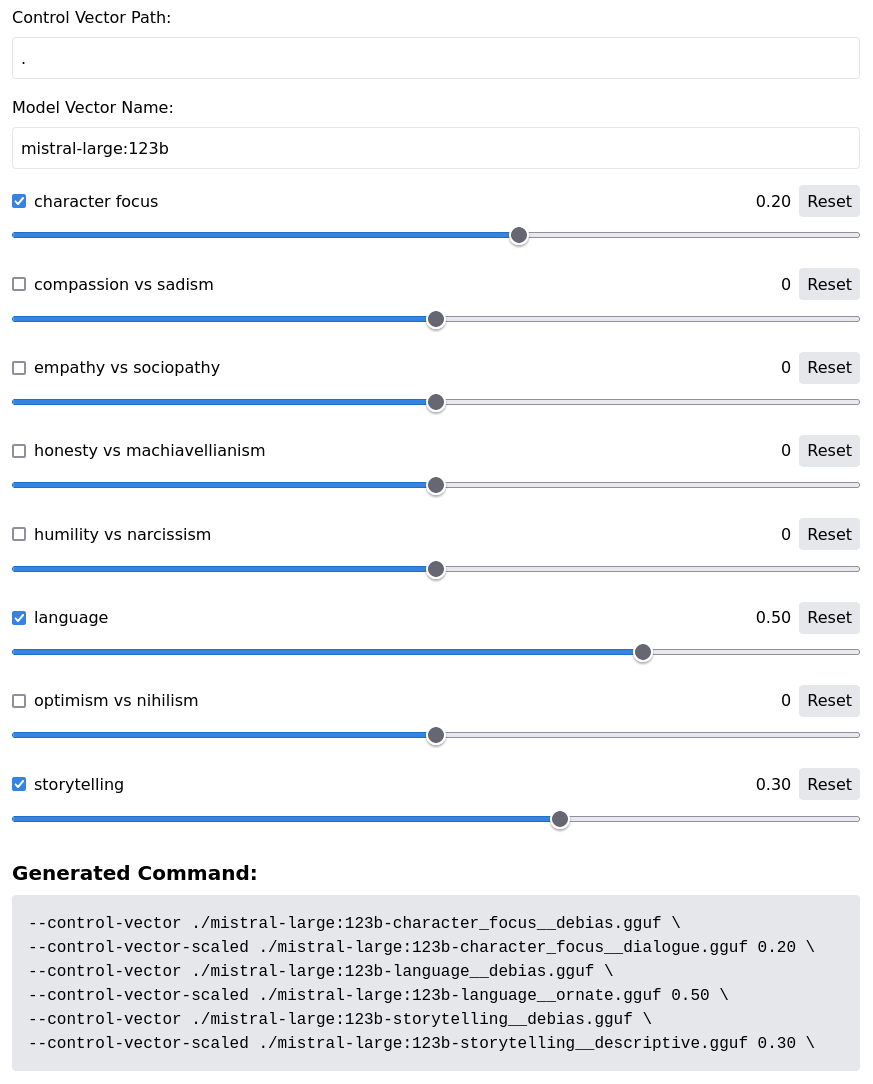
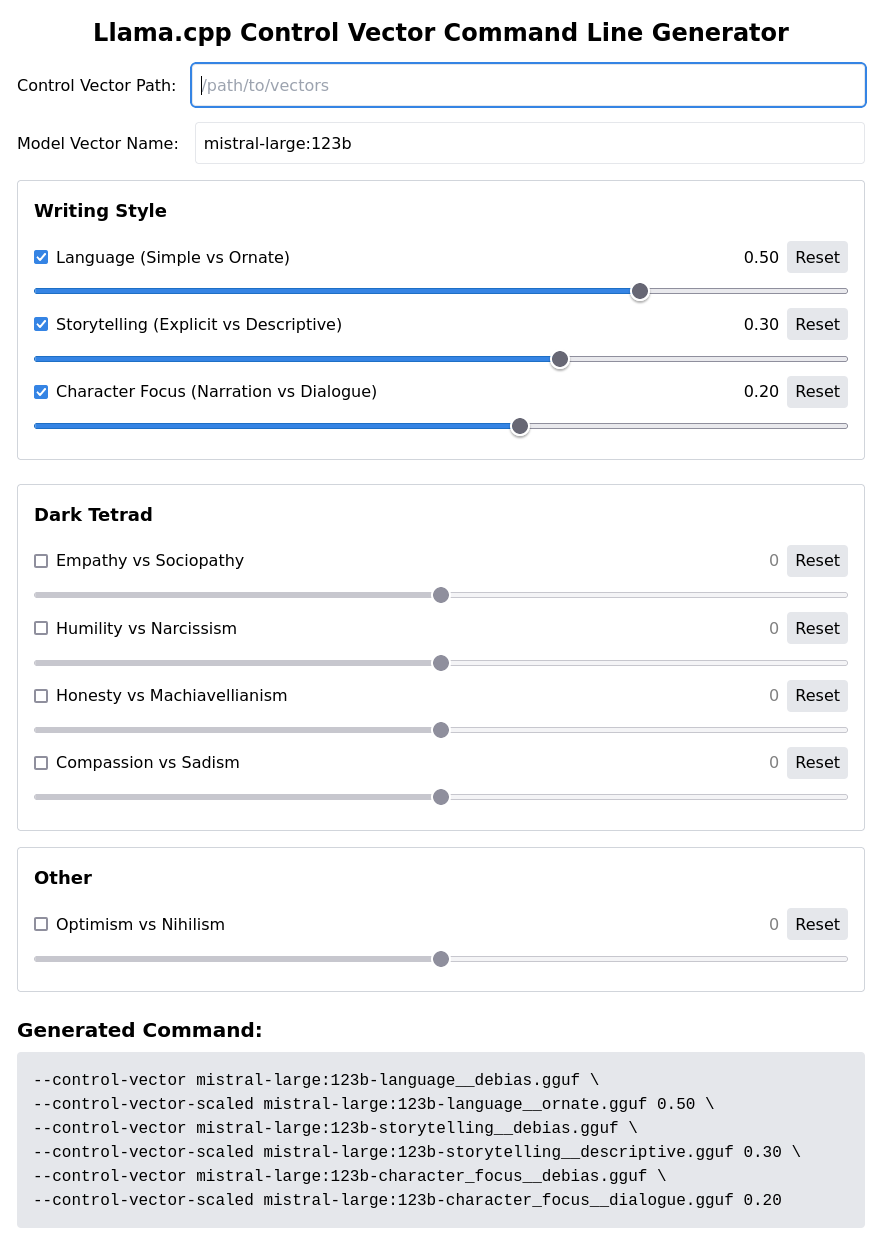
Refactored 'command_line_generator.html'.

Changed region(s): [[0.0, 0.0, 0.9897, 0.9742], [0.866, 0.7002, 0.9897, 0.7611], [0.9588, 0.0304, 0.9897, 0.0913]]

diff --git a/command_line_generator.html b/command_line_generator.html
@@ -8,16 +8,16 @@
 </head>
 <body class="bg-gray-100 p-8">
     <div class="max-w-4xl mx-auto bg-white p-6 rounded-lg shadow-md">
-        <h1 class="text-2xl font-bold mb-4">Llama.cpp Control Vector Command Generator</h1>
+        <h1 class="text-2xl font-bold mb-4 text-center">Llama.cpp Control Vector Command Line Generator</h1>
         
-        <div class="mb-4">
-            <label for="controlVectorPath" class="block mb-2">Control Vector Path:</label>
-            <input type="text" id="controlVectorPath" class="w-full p-2 border rounded" placeholder="/path/to/control/vectors">
+        <div class="mb-4 flex items-center">
+            <label for="controlVectorPath" class="block mr-4">Control Vector Path:</label>
+            <input type="text" id="controlVectorPath" class="flex-1 p-2 border rounded" placeholder="/path/to/vectors">
         </div>
-
-        <div class="mb-4">
-            <label for="modelVectorName" class="block mb-2">Model Vector Name:</label>
-            <input type="text" id="modelVectorName" class="w-full p-2 border rounded" placeholder="e.g., wizard-lm-2:8x22b">
+        
+        <div class="mb-4 flex items-center">
+            <label for="modelVectorName" class="block mr-4">Model Vector Name:</label>
+            <input type="text" id="modelVectorName" class="flex-1 p-2 border rounded" placeholder="e.g., wizard-lm-2:8x22b">
         </div>
 
         <div id="sliders" class="space-y-4"></div>
@@ -30,76 +30,120 @@
 
     <script>
         const controlVectors = [
-            { name: "character_focus", options: ["dialogue", "narration"] },
-            { name: "compassion_vs_sadism", options: ["compassion", "sadism"] },
-            { name: "empathy_vs_sociopathy", options: ["empathy", "sociopathy"] },
-            { name: "honesty_vs_machiavellianism", options: ["honesty", "machiavellianism"] },
-            { name: "humility_vs_narcissism", options: ["humility", "narcissism"] },
-            { name: "language", options: ["ornate", "simple"] },
-            { name: "optimism_vs_nihilism", options: ["optimism", "nihilism"] },
-            { name: "storytelling", options: ["descriptive", "explicit"] }
+            { category: "Writing Style", display_name: "Language (Simple vs Ornate)", name: "language", options: ["simple", "ornate"] },
+            { category: "Writing Style", display_name: "Storytelling (Explicit vs Descriptive)", name: "storytelling", options: ["explicit", "descriptive"] },
+            { category: "Writing Style", display_name: "Character Focus (Narration vs Dialogue)", name: "character_focus", options: ["narration", "dialogue"] },
+            { category: "Dark Tetrad", display_name: "Empathy vs Sociopathy", name: "empathy_vs_sociopathy", options: ["empathy", "sociopathy"] },
+            { category: "Dark Tetrad", display_name: "Humility vs Narcissism", name: "humility_vs_narcissism", options: ["humility", "narcissism"] },
+            { category: "Dark Tetrad", display_name: "Honesty vs Machiavellianism", name: "honesty_vs_machiavellianism", options: ["honesty", "machiavellianism"] },
+            { category: "Dark Tetrad", display_name: "Compassion vs Sadism", name: "compassion_vs_sadism", options: ["compassion", "sadism"] },
+            { category: "Other", display_name: "Optimism vs Nihilism", name: "optimism_vs_nihilism", options: ["optimism", "nihilism"] }
         ];
 
         const slidersContainer = document.getElementById('sliders');
+        const categories = {};
         const outputElement = document.getElementById('output');
         const controlVectorPathInput = document.getElementById('controlVectorPath');
         const modelVectorNameInput = document.getElementById('modelVectorName');
-
+        
         controlVectors.forEach(vector => {
+            if (!categories[vector.category]) {
+                const categoryContainer = document.createElement('div');
+                categoryContainer.classList.add("mb-6", "p-4", "border", "border-gray-300", "rounded");
+                const categoryTitle = document.createElement('h3');
+                categoryTitle.textContent = vector.category;
+                categoryTitle.classList.add("text-lg", "font-bold", "mb-4");
+                categoryContainer.appendChild(categoryTitle);
+                slidersContainer.appendChild(categoryContainer);
+                categories[vector.category] = categoryContainer;
+            }
+        
             const sliderContainer = document.createElement('div');
             sliderContainer.innerHTML = `
                 <div class="flex items-center mb-2">
                     <input type="checkbox" id="${vector.name}-active" class="mr-2" onchange="updateOutput()">
-                    <label class="mr-4">${vector.name.replace(/_/g, ' ')}</label>
+                    <label class="mr-4">${vector.display_name}</label>
                     <span id="${vector.name}-value" class="ml-auto">0</span>
                     <button id="${vector.name}-reset" class="ml-2 px-2 py-1 bg-gray-200 rounded" onclick="resetSlider('${vector.name}')">Reset</button>
                 </div>
                 <input type="range" min="-100" max="100" value="0" class="w-full" 
                     id="${vector.name}" oninput="updateSliderValue('${vector.name}')">
             `;
-            slidersContainer.appendChild(sliderContainer);
+            categories[vector.category].appendChild(sliderContainer);
         });
 
         function updateSliderValue(vectorName) {
-            const slider = document.getElementById(vectorName);
-            const value = parseFloat(slider.value) / 100;
-            document.getElementById(`${vectorName}-value`).textContent = value.toFixed(2);
-            updateOutput();
-        }
+           const slider = document.getElementById(vectorName);
+           const value = parseFloat(slider.value) / 100;
+           document.getElementById(`${vectorName}-value`).textContent = value.toFixed(2);
+           updateOutput();
+       }
+       
+       function resetSlider(vectorName) {
+           const slider = document.getElementById(vectorName);
+           slider.value = 0;
+           document.getElementById(`${vectorName}-value`).textContent = '0';
+           updateOutput();
+       }
+       
+       function updateOutput() {
+           const controlVectorPath = controlVectorPathInput.value.trim();
+           const modelVectorName = modelVectorNameInput.value.trim();
+           let command = '';
+       
+           controlVectors.forEach(vector => {
+               const isActive = document.getElementById(`${vector.name}-active`).checked;
+               const slider = document.getElementById(vector.name);
+               const sliderValueDisplay = document.getElementById(`${vector.name}-value`);
+               const resetButton = document.getElementById(`${vector.name}-reset`);
+       
+               // Enable or disable the slider and reset button based on checkbox state
+               slider.disabled = !isActive;
+               resetButton.disabled = !isActive;
+               sliderValueDisplay.style.opacity = isActive ? '1' : '0.5'; // Dim the value display when disabled
+       
+               if (!isActive) return;
+       
+               const value = parseFloat(slider.value) / 100;
+               const formattedPath = controlVectorPath ? `${controlVectorPath}/` : "";
+               const modelName = modelVectorName || "XXXXX";
+               
+               command += `--control-vector ${formattedPath}${modelName}-${vector.name}__debias.gguf \\\n`;
+               
+               if (value !== 0) {
+                   const option = value > 0 ? vector.options[1] : vector.options[0];
+                   const absValue = Math.abs(value);
+               
+                   if (Math.abs(absValue - 1.0) < 0.005) {
+                       command += `--control-vector ${formattedPath}${modelName}-${vector.name}__${option}.gguf \\\n`;
+                   } else {
+                       command += `--control-vector-scaled ${formattedPath}${modelName}-${vector.name}__${option}.gguf ${absValue.toFixed(2)} \\\n`;
+                   }
+               }
+           });
 
-        function resetSlider(vectorName) {
-            const slider = document.getElementById(vectorName);
-            slider.value = 0;
-            document.getElementById(`${vectorName}-value`).textContent = '0';
-            updateOutput();
-        }
+           // Check if the last character is a backslash and remove it
+           if (command.endsWith("\\\n")) {
+               command = command.slice(0, -2);
+           }
 
-        function updateOutput() {
-            const controlVectorPath = controlVectorPathInput.value.trim();
-            const modelVectorName = modelVectorNameInput.value.trim();
-            let command = '';
-
-            controlVectors.forEach(vector => {
-                const isActive = document.getElementById(`${vector.name}-active`).checked;
-                if (!isActive) return;
-
-                const slider = document.getElementById(vector.name);
-                const value = parseFloat(slider.value) / 100;
-
-                command += `--control-vector ${controlVectorPath}/${modelVectorName}-${vector.name}__debias.gguf \\\n`;
-
-                if (value !== 0) {
-                    const option = value > 0 ? vector.options[0] : vector.options[1];
-                    const absValue = Math.abs(value);
-                    command += `--control-vector-scaled ${controlVectorPath}/${modelVectorName}-${vector.name}__${option}.gguf ${absValue.toFixed(2)} \\\n`;
-                }
-            });
-
-            outputElement.textContent = command ? command.trim() : 'No control vectors selected';
-        }
-
-        controlVectorPathInput.addEventListener('input', updateOutput);
-        modelVectorNameInput.addEventListener('input', updateOutput);
+           outputElement.textContent = command ? command.trim() : 'No control vectors selected';
+       }
+       
+       // Set initial state of sliders based on checkbox state
+       document.addEventListener('DOMContentLoaded', () => {
+           controlVectors.forEach(vector => {
+               const isActive = document.getElementById(`${vector.name}-active`).checked;
+               const slider = document.getElementById(vector.name);
+               const resetButton = document.getElementById(`${vector.name}-reset`);
+               slider.disabled = !isActive;
+               resetButton.disabled = !isActive;
+           });
+           updateOutput();
+       });
+       
+       controlVectorPathInput.addEventListener('input', updateOutput);
+       modelVectorNameInput.addEventListener('input', updateOutput);
 
         updateOutput();
     </script>
